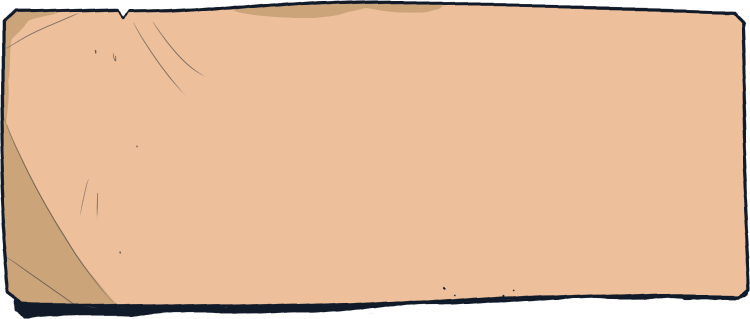
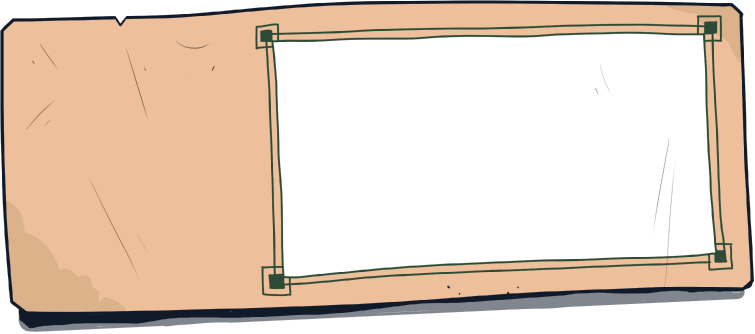
Update lead item styles

diff --git a/app/test/leads/leadCell.tsx b/app/test/leads/leadCell.tsx
@@ -11,25 +11,21 @@ interface LeadCellProps {
 
 export const LeadCell = ({ lead }: LeadCellProps) => {
   return (
-    <div className="relative h-[150px] w-[375px] bg-no-repeat bg-[url('/kd/ticket_bg.png')] bg-contain flex p-2">
-      <div
-        className={`w-[100px] h-[150px] flex flex-col items-start justify-center`}
-      >
-        <p className={`w-[100px] text-[#1A222F] ${handWriting.className}`}>
-          {lead}
-        </p>
-        <p
-          className={`flex items-center justify-center w-[80px] h-[36px] bg-no-repeat bg-contain text-[#A81600] text-center bg-[url('/kd/read_more_bg.png')] ${handWriting.className}`}
+    <div className="relative h-[150px] w-[375px] bg-no-repeat bg-contain flex p-2">
+      <div className="absolute h-[110px] w-[200px] bg-no-repeat bg-[url('/ghost.jpeg')] bg-cover flex p-2 right-12 top-6 -rotate-2"/>
+      <div className="relative h-[150px] w-[375px] bg-no-repeat bg-[url('/kd/ticket_bg.png')] bg-contain flex p-2">
+        <div
+          className={`w-[100px] h-[150px] flex flex-col items-start justify-center`}
         >
-          Read more
-        </p>
-      </div>
-      <div className="relative h-[136px] w-[236px] bg-no-repeat bg-[url('/kd/ticket_thumb.png')] bg-contain">
-        <img
-          style={{ padding: 7, paddingTop: 6, maxHeight: 130}}
-          src="/ghost.jpeg"
-          alt="my image"
-        />
+          <p className={`w-[100px] text-[#1A222F] ${handWriting.className}`}>
+            {lead}
+          </p>
+          <p
+            className={`flex items-center justify-center w-[80px] h-[36px] bg-no-repeat bg-contain text-[#A81600] text-center bg-[url('/kd/read_more_bg.png')] ${handWriting.className}`}
+          >
+            Read more
+          </p>
+        </div>
       </div>
     </div>
   );

diff --git a/app/test/leads/page.tsx b/app/test/leads/page.tsx
@@ -20,7 +20,7 @@ export default function Page() {
 
   return (
     <>
-      <div className="fixed top-[0px] left-[0px] h-[200px] w-full bg-no-repeat bg-[url('/kd/topCorner.png')] bg-contain z-30"></div>
+      <div className="fixed top-[0px] left-[0px] h-full w-full bg-no-repeat bg-[url('/kd/topCorner.png')] bg-contain z-30"></div>
       <div className="fixed bottom-[0px] right-[0px] h-[200px] w-full bg-no-repeat bg-[url('/kd/bottomRightCorner.png')] bg-contain z-30 bg-bottom"></div>
       <div className="relative flex bg-gray-100 dark:bg-gray-900 bg-[url('/kd/bg.jpg')] bg-repeat">
         <div className="absolute top-[20px] left-[200px] bgh-center bg-no-repeat h-[249px] w-[249px] bg-[url('/kd/magnifying_glass.png')] bg-contain z-50"></div>
